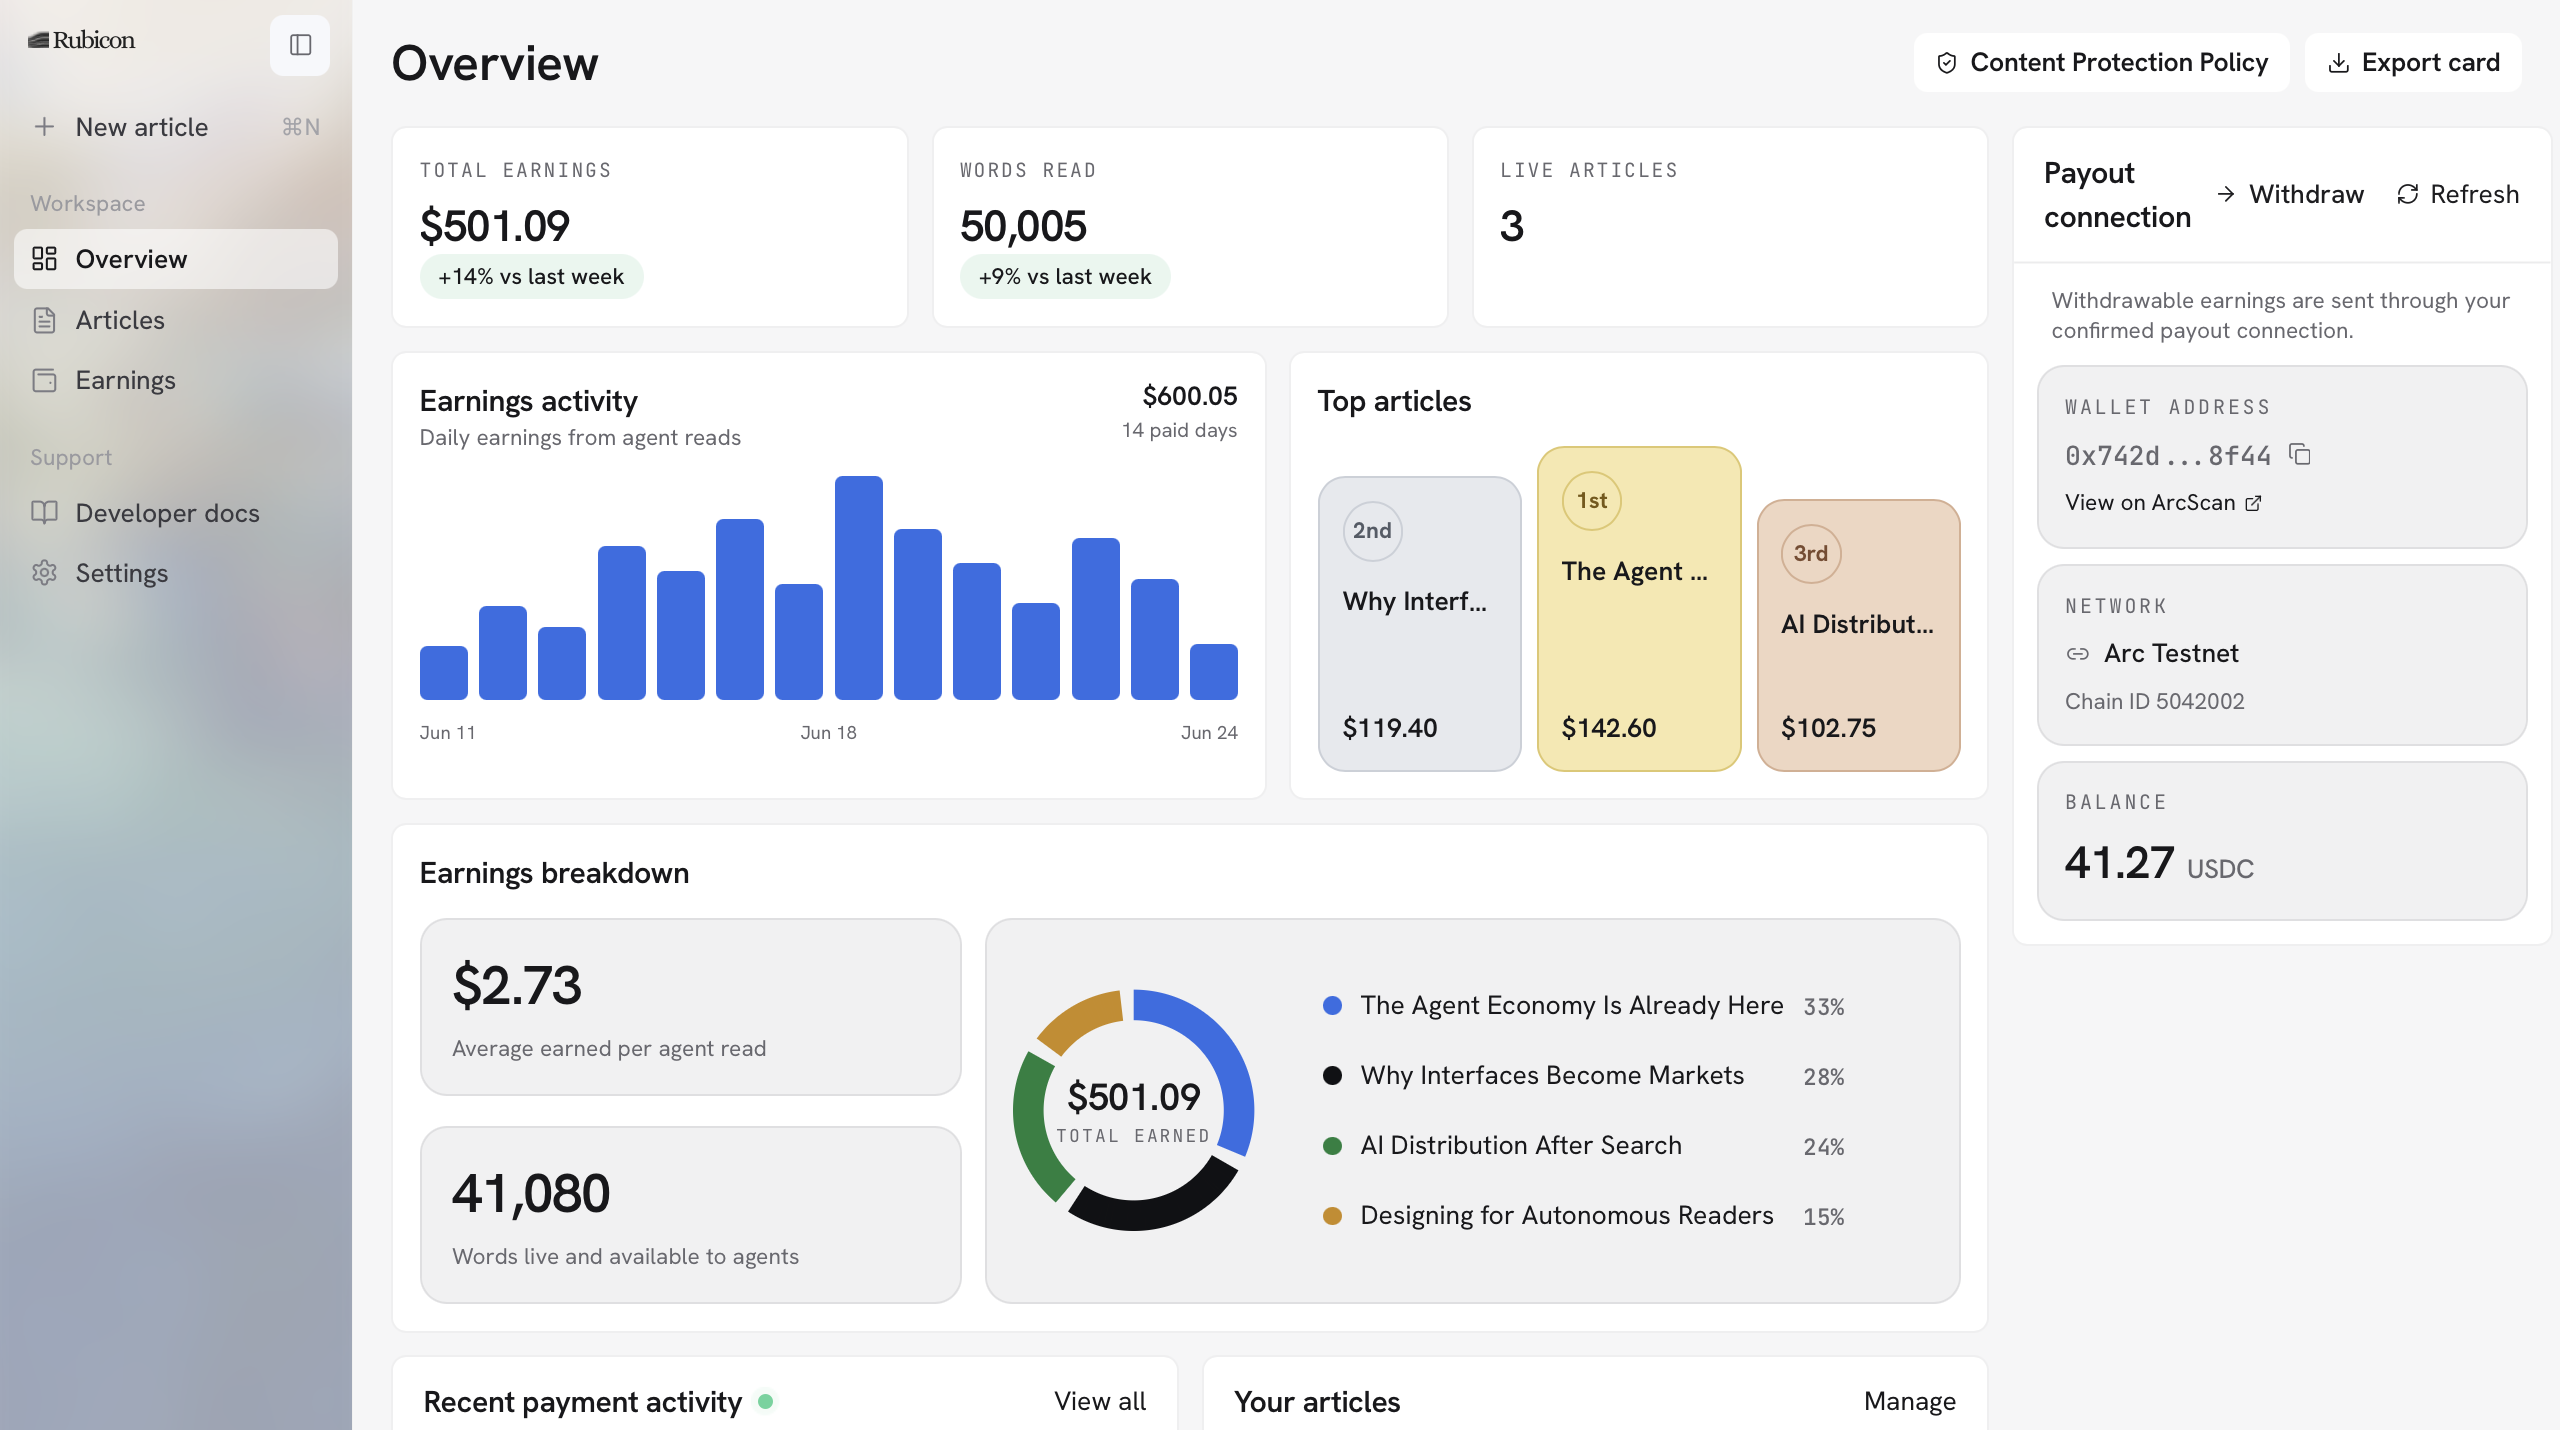
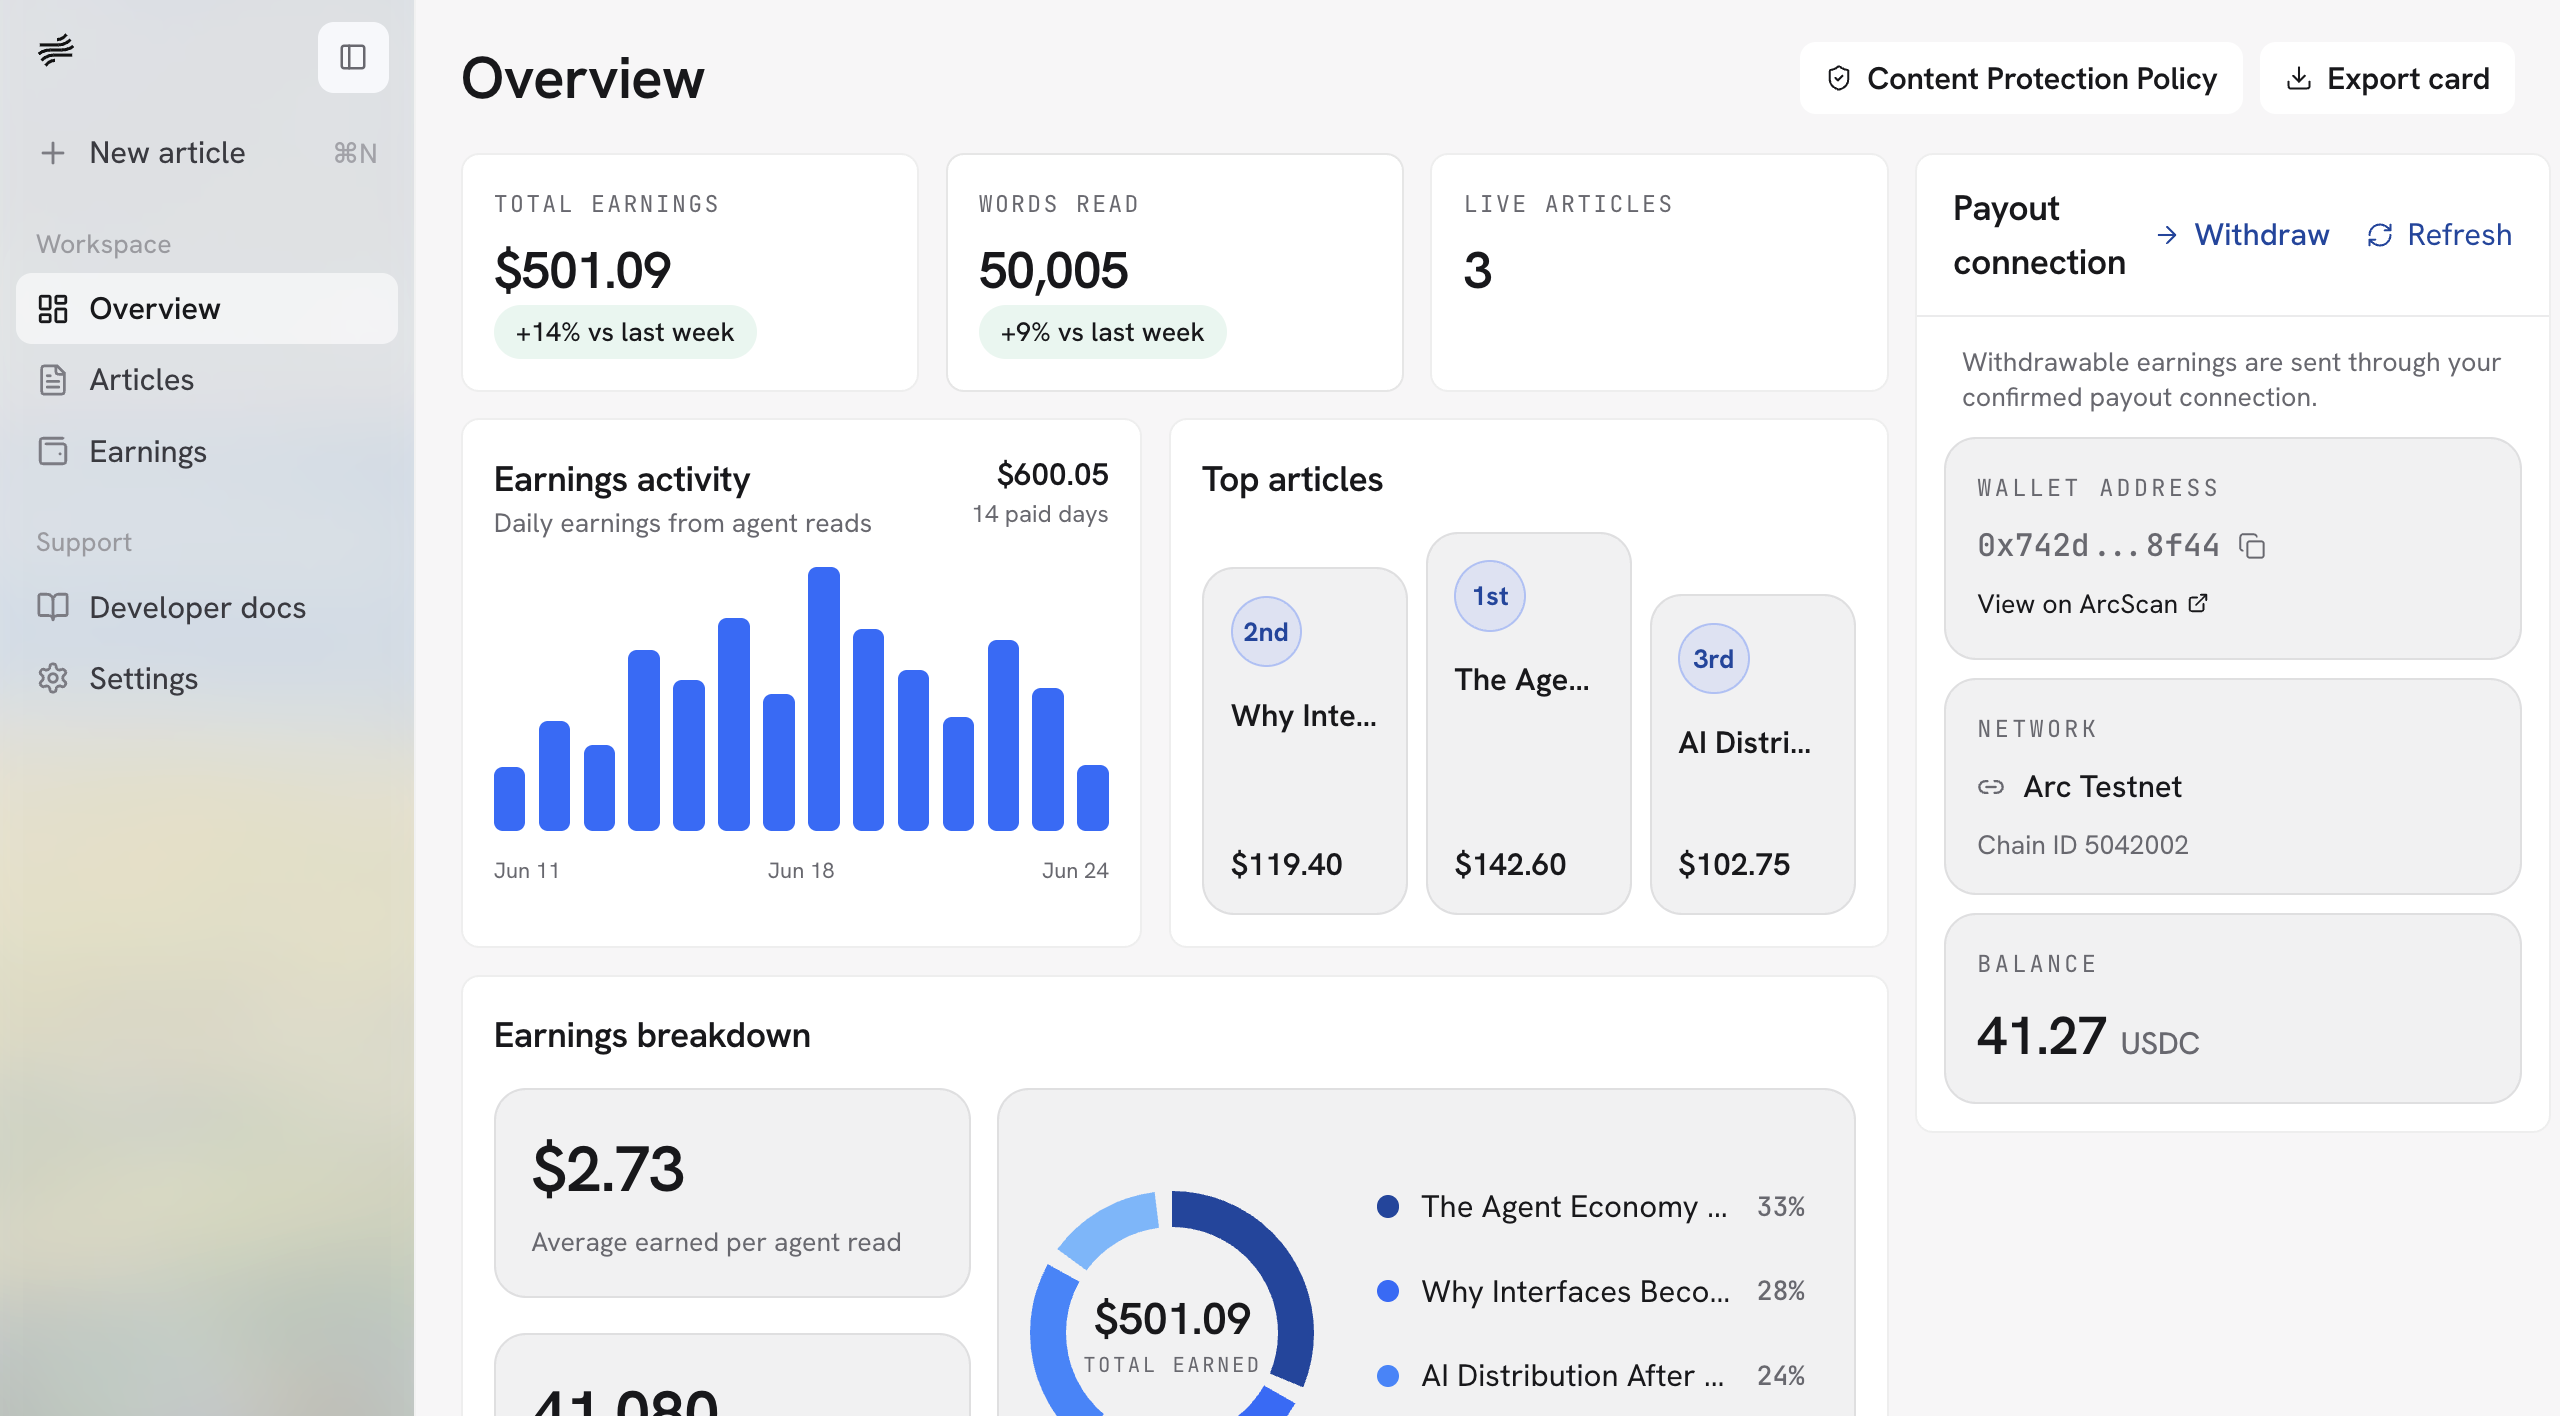
fix: header alignment and underline

diff --git a/app/globals.css b/app/globals.css
@@ -2465,8 +2465,8 @@ a {
 
 .site-header-logo .site-header-brand--new {
   position: relative;
-  width: 7rem;
-  height: 2.45rem;
+  width: 5.5rem;
+  height: 1.45rem;
   overflow: hidden;
 }
 
@@ -2477,7 +2477,7 @@ a {
   width: auto;
   height: 446.43%;
   max-width: none;
-  transform: translate(-27.87%, -38.8%);
+  transform: translate(-6.67%, -38.8%);
 }
 
 @media (min-width: 768px) {
@@ -5102,12 +5102,32 @@ a {
   height: 3.25rem;
 }
 
-.site-nav-link { color: #6b7079; }
-.site-nav-link:hover,
+.site-nav-link {
+  color: #34363b;
+  transition: color 160ms var(--ease-out);
+}
 .site-nav-link.site-nav-link--active,
-.site-nav-link[aria-current="page"] { color: #16181d; }
-.site-nav-link::after { bottom: -0.55rem; left: 0.15rem; right: 0.15rem; height: 2.5px; border-radius: 2px; background: #16181d; }
-.site-nav-dropdown-trigger.site-nav-link::after { right: 1.25rem; }
+.site-nav-link[aria-current="page"] { color: #74777e; }
+.site-nav-link::after { display: none; }
+
+@media (hover: hover) and (pointer: fine) {
+  .site-nav-link:hover { color: #74777e; }
+}
+
+@media (min-width: 1024px) {
+  .site-header-inner,
+  .site-header--scrolled .site-header-inner {
+    display: grid;
+    grid-template-columns: minmax(0, 1fr) auto minmax(0, 1fr);
+  }
+
+  .site-header-logo { justify-self: start; }
+  .site-header-links { justify-self: center; }
+  .site-header-actions {
+    justify-self: end;
+    margin-left: 0;
+  }
+}
 
 .site-nav-cta { transition: transform 140ms var(--ease-out), background-color 180ms ease, border-color 180ms ease; }
 .site-nav-cta:active { transform: scale(0.97); }
@@ -5171,12 +5191,12 @@ a {
   pointer-events: none;
 }
 
-/* Showcase: the dashboard screenshot floats on a rounded cosmos-1 painting stage. */
+/* Showcase: the dashboard screenshot sits on the dedicated dashboard painting. */
 .landing-dashboard-showcase-panel {
   border: 0;
   border-radius: clamp(18px, 2vw, 28px);
   padding: clamp(0.85rem, 2.6vw, 2.5rem);
-  background-image: url("/cosmos-1.webp");
+  background-image: url("/DB_BG.png");
   background-size: cover;
   background-position: center 30%;
 }
@@ -5184,7 +5204,7 @@ a {
 .landing-dashboard-frame {
   border-radius: clamp(10px, 1.4vw, 16px);
 }
-.landing-dashboard-frame { box-shadow: 0 18px 50px rgba(20, 22, 28, 0.22); }
+.landing-dashboard-frame { box-shadow: none; }
 .landing-hero-layout {
   display: grid;
   align-items: center;

diff --git a/app/marketing.css b/app/marketing.css
@@ -1,14 +1,14 @@
 /* Route-scoped marketing corrections. Keep dashboard styling in globals.css untouched. */
 
 .landing-page .landing-hero {
-  min-height: calc(100dvh - 4rem);
+  min-height: auto;
   border-bottom: 0;
   background: #fff;
 }
 
 .landing-page .landing-hero-content {
   align-items: center;
-  padding-block: clamp(5rem, 14vh, 9rem);
+  padding-block: clamp(7rem, 13vh, 9rem) clamp(3rem, 6vh, 4.5rem);
 }
 
 .landing-page .landing-hero-copy {
@@ -35,6 +35,25 @@
 
 .landing-page .landing-hero-title-emphasis {
   color: #18181b;
+}
+
+.landing-page .landing-dashboard-showcase {
+  padding-top: clamp(0.75rem, 1.5vh, 1.25rem);
+}
+
+.landing-page .landing-dashboard-showcase-inner {
+  gap: clamp(1.5rem, 3vw, 2.25rem);
+}
+
+.landing-page .landing-dashboard-showcase-panel {
+  padding: clamp(0.85rem, 2.6vw, 2.5rem);
+  background-image: url("/DB_BG.png");
+  background-position: center;
+  background-size: cover;
+}
+
+.landing-page .landing-dashboard-frame {
+  box-shadow: none;
 }
 
 .creators-page .creators-hero {
@@ -88,12 +107,12 @@
 
 @media (max-width: 767px) {
   .landing-page .landing-hero {
-    min-height: calc(100dvh - 4rem);
+    min-height: auto;
   }
 
   .landing-page .landing-hero-content {
     align-items: center;
-    padding-block: 5rem 3.5rem;
+    padding-block: 5rem 2.5rem;
   }
 
   .landing-page .landing-hero-title {